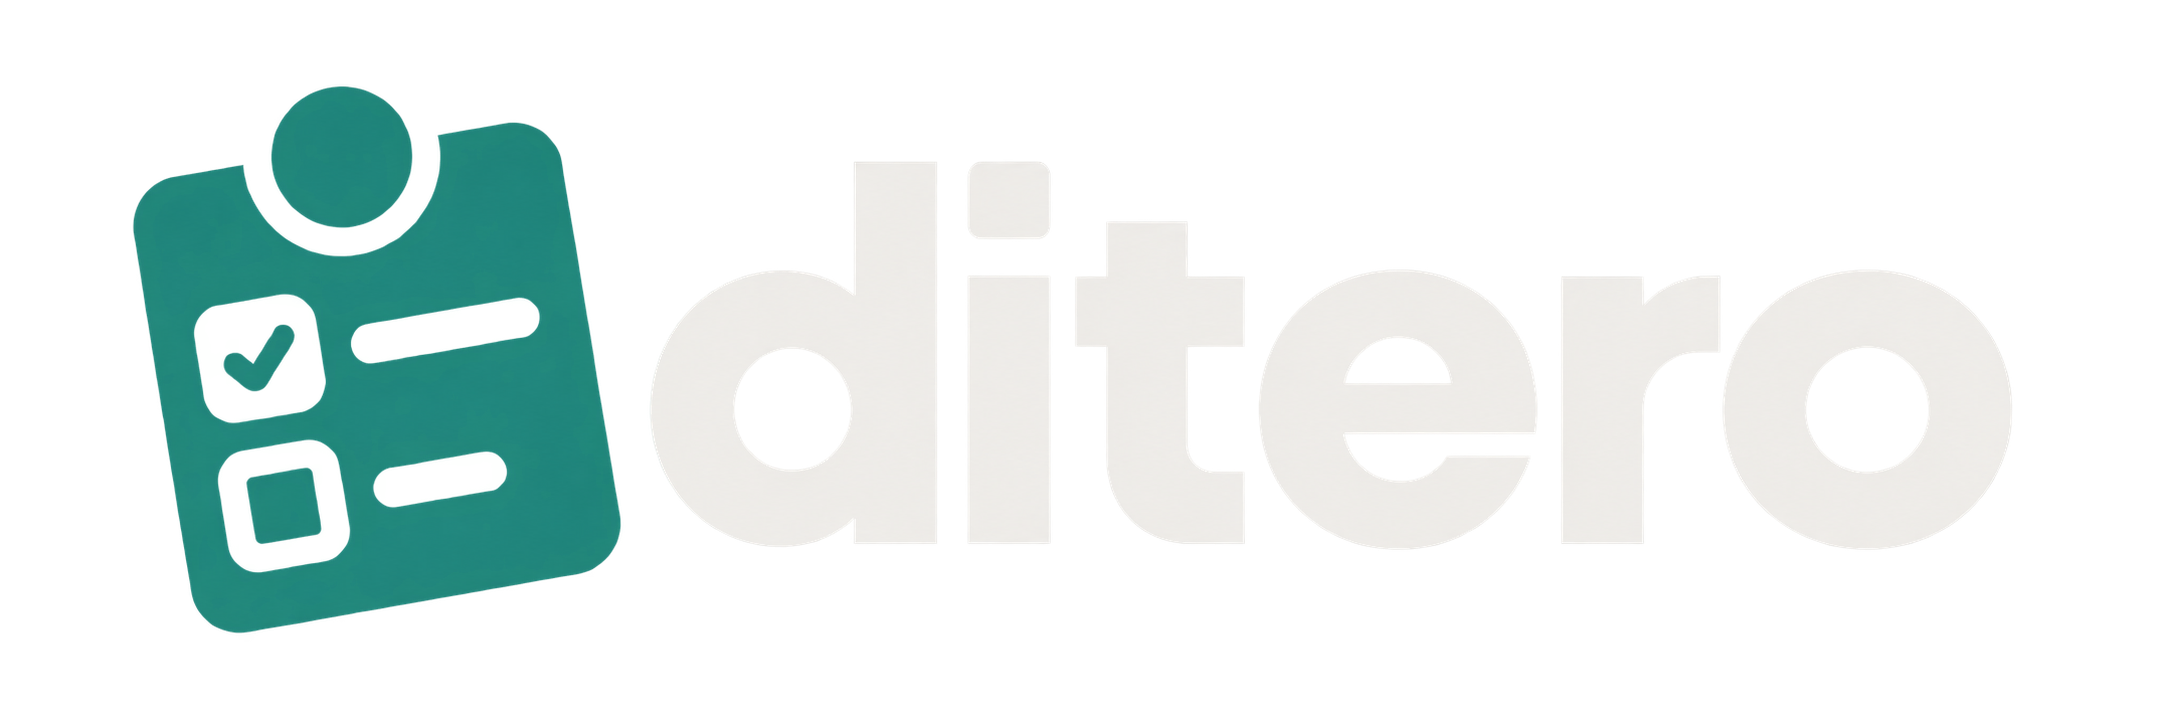
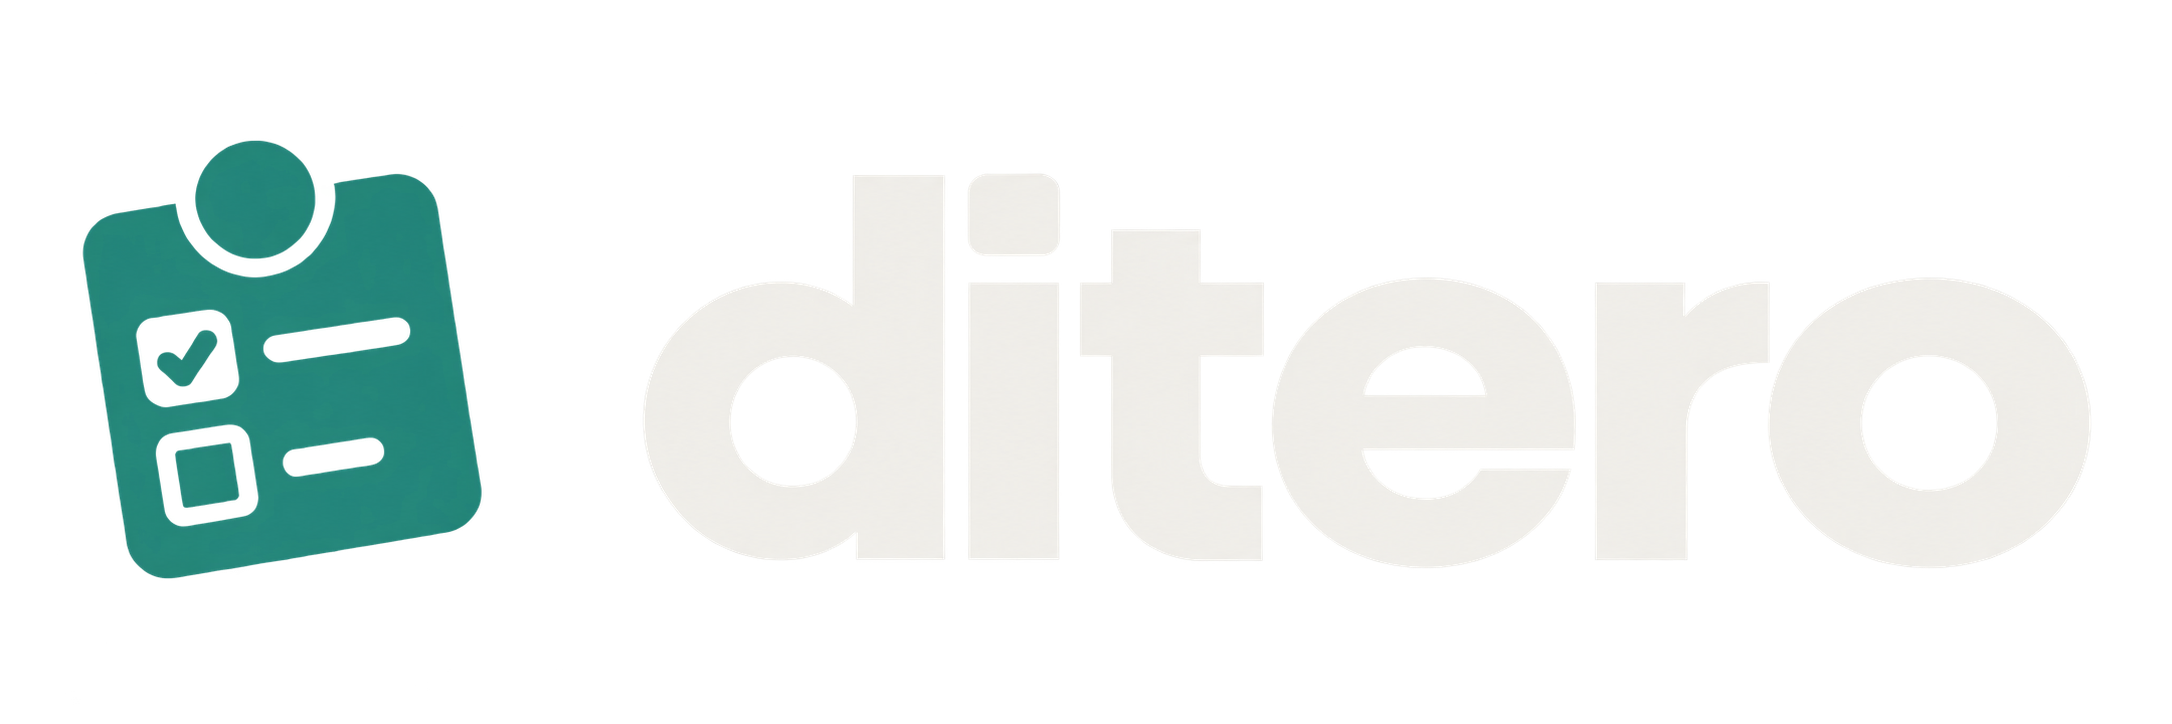
docs(brand): refine wordmark proportions and center README badges

Changed region(s): [[0.0308, 0.1215, 0.3085, 0.8812]]

diff --git a/README.md b/README.md
@@ -5,13 +5,13 @@
   </picture>
 </p>
 
-<h1 align="center">Ditero</h1>
-
 <p align="center"><strong>Shared tasks for the people you share life with.</strong></p>
 
-[![CI](https://github.com/iuliandita/ditero/actions/workflows/ci.yml/badge.svg?branch=develop)](https://github.com/iuliandita/ditero/actions/workflows/ci.yml)
-[![License: MIT](https://img.shields.io/badge/License-MIT-blue.svg)](LICENSE)
-![Status: pre-alpha](https://img.shields.io/badge/status-pre--alpha-orange)
+<p align="center">
+  <a href="https://github.com/iuliandita/ditero/actions/workflows/ci.yml"><img src="https://github.com/iuliandita/ditero/actions/workflows/ci.yml/badge.svg?branch=develop" alt="CI"></a>
+  <a href="LICENSE"><img src="https://img.shields.io/badge/License-MIT-blue.svg" alt="License: MIT"></a>
+  <img src="https://img.shields.io/badge/status-pre--alpha-orange" alt="Status: pre-alpha">
+</p>
 
 Ditero is a free, self-hosted, local-first task app for families, friends, clubs,
 and small teams. Share a shopping list, divide the chores, plan a project, or keep

diff --git a/assets/brand/README.md b/assets/brand/README.md
@@ -12,7 +12,8 @@ on dark backgrounds. Teal is the default symbol and application accent.
 - [Palette values](palettes.json)
 
 All PNGs have transparent backgrounds. These are raster assets; editable vector
-masters are not included. Keep the symbol and lettering proportions intact.
+masters are not included. Keep the symbol and lettering proportions intact. The
+horizontal wordmarks use a smaller symbol and wider gap than the palette studies.
 
 ## Accent themes
 
